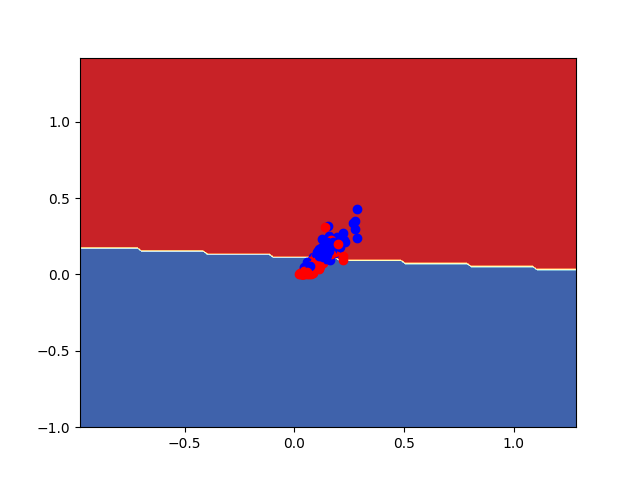
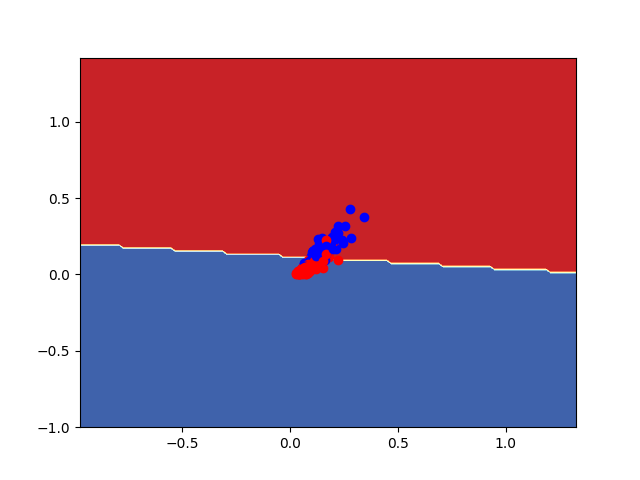
Confusion Matrix

diff --git a/LogisticRegression/SoftMax.py b/LogisticRegression/SoftMax.py
@@ -5,6 +5,7 @@ from matplotlib.pyplot import axis
 import pandas as pd
 from autograd.numpy import exp,log
 from autograd import grad
+import matplotlib.pyplot as plt
 
 def lossSoftmax(w,X,y):
     big=np.matmul(X,w.T)
@@ -59,7 +60,8 @@ class Softmax():
             X_intercept=np.zeros(X.shape[0])
         X_arr=np.vstack((X_intercept,X.T)).T
         y_arr=self.__mapAttributes(y)
-        self.__coef=np.zeros((len(self.__att),X.shape[1]+1))   
+        self.__coef=np.ones((len(self.__att),X.shape[1]+1))   
+        # self.__coef=np.zeros((len(self.__att),X.shape[1]+1))   
         if(lr_type=='constant'):
             iter=0
             bs=0
@@ -161,16 +163,23 @@ class Softmax():
             return i2n(np.argmax(result,axis=1))
     
     def confusion_matrix(self,X,y):
-        pass
+        conf=[[0]*len(self.__att) for i in range(len(self.__att))]
+        y_hat=self.predict(X)
+        y=np.array(y)
+        for i in range(len(y_hat)):
+            conf[y_hat[i]][y[i]]+=1
+        print(conf)
+        plt.imshow(conf)    
+        plt.show()
 
-X1=np.array([[1.0],[1.0],[4.0],[5.0],[6.0],[10.0],[13.0]])
-y1=np.array(["kal","kal","ram","ram","ram","bhim","bhim"])
-b1=Softmax()
+# X1=np.array([[1.0],[1.0],[4.0],[5.0],[6.0],[10.0],[13.0]])
+# y1=np.array(["kal","kal","ram","ram","ram","bhim","bhim"])
+# b1=Softmax()
 
-b1.fit_vectorized(X1,y1,n_iter=500)
-print(b1._Softmax__coef)
-print(b1.predict(np.array([[1],[4],[4],[3],[14],[5]])))
-a=Softmax()
-a.fit_autograd(X1,y1,n_iter=1000)
-print(a._Softmax__coef)
-print(a.predict(np.array([[1],[4],[4],[3],[14],[5]])))
+# b1.fit_vectorized(X1,y1,n_iter=500)
+# print(b1._Softmax__coef)
+# print(b1.predict(np.array([[1],[4],[4],[3],[14],[5]])))
+# a=Softmax()
+# a.fit_autograd(X1,y1,n_iter=1000)
+# print(a._Softmax__coef)
+# print(a.predict(np.array([[1],[4],[4],[3],[14],[5]])))

diff --git a/question3.py b/question3.py
@@ -1,0 +1,27 @@
+from LogisticRegression.SoftMax import Softmax 
+from matrix import *
+import pandas as pd
+import numpy as np
+from sklearn.datasets import load_digits
+Digits=load_digits(as_frame=True)
+Digit_data=Digits.data
+Digit_data["Truth"]=Digits.target
+Digit_data=Digit_data.sample(frac=1).reset_index(drop=True)
+split_at=int(0.6*(Digit_data.shape[0]))
+X_train=Digit_data.iloc[:split_at,:-1]
+y_train=Digit_data.iloc[:split_at,-1]
+X_test=Digit_data.iloc[split_at:,:-1]
+y_test=Digit_data.iloc[split_at:,-1]
+
+# For Question 1 answers
+print("For Vectorized and batch size=5")
+for j in [100,500,1000,5000,10000]:
+    model=Softmax()
+    model.fit_vectorized(X_train,y_train,batch_size=5,n_iter=j)
+    y_hat=model.predict(X_test)
+    print("\tAccuracy for iteration={} is: {}".format(j,accuracy(y_hat,y_test)))
+
+#Print Confusion matrix
+model2=Softmax()
+model2.fit_vectorized(X_train,y_train,batch_size=5,n_iter=10000)
+model2.confusion_matrix(X_test,y_test)

diff --git a/LogisticRegression/LogisticRegression.py b/LogisticRegression/LogisticRegression.py
@@ -35,7 +35,7 @@ class LogisticRegression():
         self.__attribute={}
         X=np.array(X)
         X_intercept=np.ones(X.shape[0])
-        self.__coef=np.zeros(X.shape[1]+1)
+        self.__coef=np.ones(X.shape[1]+1)
         if(not self.intercept):
             X_intercept=np.zeros(X.shape[0])
         X_arr=np.vstack((X_intercept,X.T)).T
@@ -95,7 +95,7 @@ class LogisticRegression():
         self.__attribute={}
         X=np.array(X)
         X_intercept=np.ones(X.shape[0])
-        self.__coef=np.zeros(X.shape[1]+1)
+        self.__coef=np.ones(X.shape[1]+1)
         if(not self.intercept):
             X_intercept=np.zeros(X.shape[0])
         X_arr=np.vstack((X_intercept,X.T)).T

diff --git a/question1A.py b/question1A.py
@@ -6,7 +6,7 @@ import pandas as pd
 cancer=load_breast_cancer(as_frame=True)
 data=cancer.data
 data["Truth"]=cancer.target
-data=data.iloc[:,[5,6,7,8,9,10,-1]]
+# data=data.iloc[:,[5,6,7,8,9,10,-1]]
 data=data.sample(frac=1).reset_index(drop=True)
 split_at=int(0.6*(data.shape[0]))
 X_train=data.iloc[:split_at,:-1]

diff --git a/question2.py b/question2.py
@@ -1,0 +1,5 @@
+from LogisticRegression.LogisticRegression import LogisticRegression
+from matrix import *
+import pandas as pd
+import numpy as np
+from sklearn.datasets import 

diff --git a/Question1.md b/Question1.md
@@ -1,16 +1,16 @@
 ## Results for Question 1
 
 1. **Result for Vectorized Logistic Regression on Breast Cancer Data:** 
-    > For Vectorized and Batch size=100
+    > For Vectorized and Batch size=100 (split=0.6)
         
-        > Accuracy for iteration=100 is: 0.7807017543859649
-        > Accuracy for iteration=1000 is: 0.8245614035087719
-        > Accuracy for iteration=2000 is: 0.8508771929824561
-        > Accuracy for iteration=3000 is: 0.8421052631578947
-        > Accuracy for iteration=10000 is: 0.8508771929824561
+        > Accuracy for iteration=100 is: 0.32894736842105265 
+        > Accuracy for iteration=1000 is: 0.9429824561403509 
+        > Accuracy for iteration=2000 is: 0.8771929824561403 
+        > Accuracy for iteration=3000 is: 0.8070175438596491 
+        > Accuracy for iteration=10000 is: 0.9517543859649122 
 
 2. **Result for Autograd Logistic Regression on Breast Cancer Data:**
-    >For Autograd and Batch size=300 and autograd
+    >For Autograd and Batch size=300 and autograd (Just considered 6 features due to autograd limit)
 
         > Accuracy for iteration=100 is: 0.618421052631579
         > Accuracy for iteration=1000 is: 0.6228070175438597
@@ -20,7 +20,7 @@
 
 3. **Plot for Decision boundry for breast cancer data**
     > Using vectorized: 
-        > Accuracy (iter=10000,batch=200) is : **0.873**
+        > Accuracy (iter=10000,batch=200) is : **0.89**
         > !['Image of vec'](q1a1.png)
 
     > Using Autograd  :

diff --git a/Question3.md b/Question3.md
@@ -1,0 +1,20 @@
+## Results for Question 3
+
+1. **Results for Vectorized Softmax on Digit dataset:**
+
+    > For Vectorized and batch size=5
+
+        > Accuracy for iteration=100 is: 0.7830319888734353
+        > Accuracy for iteration=500 is: 0.8553546592489569
+        > Accuracy for iteration=1000 is: 0.9165507649513213
+        > Accuracy for iteration=5000 is: 0.9513212795549374
+        > Accuracy for iteration=10000 is: 0.9541029207232267
+
+2. **Results for Autograd Softmax on Digit dataset:**
+
+    > 
+
+3. **Confusion Matrix:**
+
+    > Image of Confusion Matrix: 
+        >!['Confusion '](q3.png)
